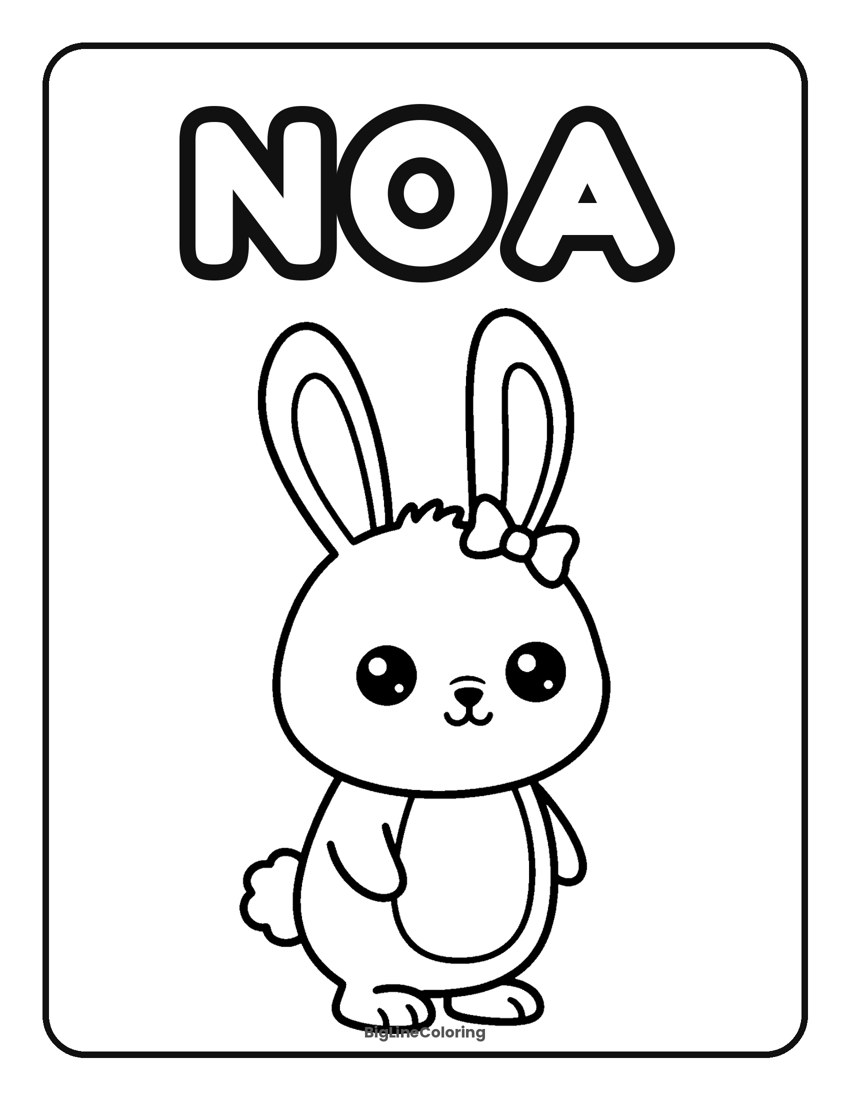
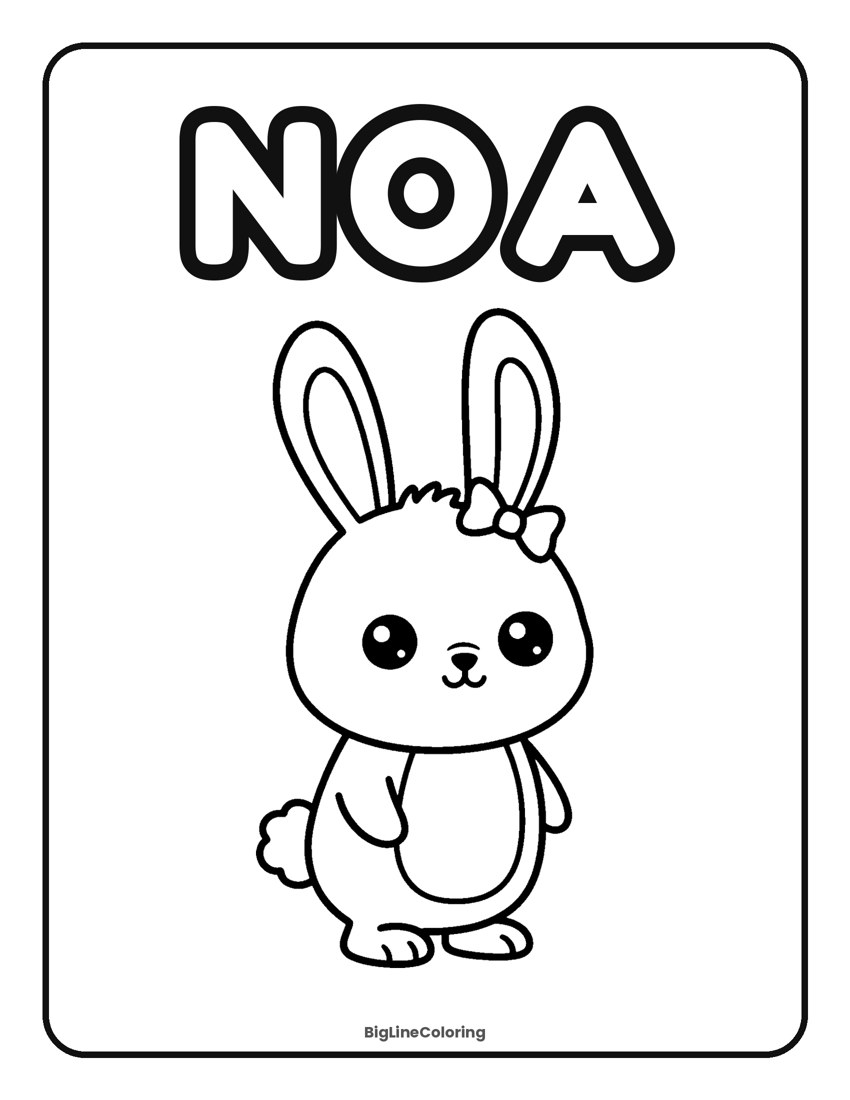
Name page: Christmas versions, friend links, print fix; home link

Changed region(s): [[0.2753, 0.2782, 0.7341, 0.9582]]

diff --git a/name-coloring-page.html b/name-coloring-page.html
@@ -22,7 +22,7 @@ select{font:600 16px system-ui;padding:8px;border:3px solid #1a1712;border-radiu
 #preview{width:100%;max-width:520px;display:block;margin:0 auto;border:3px solid #1a1712;border-radius:8px;background:#fff}
 .small{font-size:14px;color:#6b6250}
 #printimg{display:none}
-@media print{body{background:#fff}main{display:none}#printimg{display:block;width:100%}@page{margin:0}}
+@media print{body{background:#fff}main{display:none}#printimg{display:block;width:100%;height:100vh;object-fit:contain}@page{margin:0}}
 </style></head><body><main>
 <h1>Free name coloring page</h1>
 <p>Type your child's name and pick a friend. You get a printable page with the name in big bubble letters to color, made with the same extra-thick lines as our toddler coloring books (ages 2-5).</p>
@@ -36,6 +36,7 @@ select{font:600 16px system-ui;padding:8px;border:3px solid #1a1712;border-radiu
     <button data-k="hazel"><img src="name/hazel.png" alt="">Hazel Hedgehog</button>
     <button data-k="dot"><img src="name/dot.png" alt="">Dot Duck</button>
   </div>
+  <label style="margin-top:12px;font-weight:600"><input type="checkbox" id="xmas"> 🎄 Christmas version</label>
   <div class="row">
     <select id="size"><option value="letter">US Letter</option><option value="a4">A4</option></select>
     <button class="btn" id="pdf">Download PDF</button>
@@ -47,7 +48,7 @@ select{font:600 16px system-ui;padding:8px;border:3px solid #1a1712;border-radiu
 <img id="preview" alt="Your name coloring page">
 <div class="card" id="cta">
   <p><b>Love it?</b> Get a whole BigLine coloring book with <b><span id="ctaname">Noa</span>'s name</b> on the cover, the "This book belongs to" page and the certificate. Choose "Personalized with name" on any book.</p>
-  <a class="btn" href="https://www.etsy.com/shop/BigLineColoring">See the coloring books on Etsy</a>
+  <a class="btn" id="ctalink" href="https://www.etsy.com/listing/4588025856">See <span id="ctafriend">Bonnie</span>'s coloring book on Etsy</a>
 </div>
 <p><a href="free.html">More free toddler coloring pages →</a></p>
 <p class="small">Free for personal and classroom use. Illustrations made with AI tools under our own creative direction, checked by hand.</p>
@@ -57,6 +58,7 @@ select{font:600 16px system-ui;padding:8px;border:3px solid #1a1712;border-radiu
 <script>
 const SIZES = {letter: [1700, 2200, "letter"], a4: [1654, 2339, "a4"]};   // 200 dpi
 const imgs = {}; let friend = "bonnie";
+const BOOKS = {bonnie: ["Bonnie", "4588025856"], barnaby: ["Barnaby", "4590052287"], hazel: ["Hazel", "4588779387"], dot: ["Dot", "4589489708"]};
 function cleanName(v) { return (v || "").replace(/[^\p{L}\p{M} '\-]/gu, "").trim().slice(0, 12).toUpperCase(); }
 function load(k) {
   return imgs[k] || (imgs[k] = new Promise(r => { const i = new Image(); i.onload = () => r(i); i.src = "name/" + k + ".png"; }));
@@ -78,8 +80,8 @@ async function draw() {
   let cx = W / 2 - widthOf() / 2; const pos = chars.map(ch => { const p = cx; cx += x.measureText(ch).width + gap; return p; });
   x.lineWidth = size * 0.16; x.strokeStyle = "#111"; chars.forEach((ch, i) => x.strokeText(ch, pos[i], ty));  // thick outline...
   x.fillStyle = "#fff"; chars.forEach((ch, i) => x.fillText(ch, pos[i], ty));                                  // ...hollow inside
-  const img = await load(friend);                            // the friend, big, below the name
-  const bw = W - 2 * m - W * 0.12, bh = H * 0.66, k = Math.min(bw / img.width, bh / img.height);
+  const img = await load((document.getElementById("xmas").checked ? "xmas-" : "") + friend);                            // the friend, big, below the name
+  const bw = W - 2 * m - W * 0.12, bh = H * 0.60, k = Math.min(bw / img.width, bh / img.height);
   const iw = img.width * k, ih = img.height * k;
   x.drawImage(img, (W - iw) / 2, H * 0.28 + (bh - ih) / 2, iw, ih);
   x.fillStyle = "#555"; x.font = `600 ${W * 0.018}px system-ui, sans-serif`;
@@ -87,10 +89,13 @@ async function draw() {
   const url = c.toDataURL("image/png");
   document.getElementById("preview").src = url; document.getElementById("printimg").src = url;
   document.getElementById("ctaname").textContent = name.charAt(0) + name.slice(1).toLowerCase();
+  document.getElementById("ctafriend").textContent = BOOKS[friend][0];
+  document.getElementById("ctalink").href = "https://www.etsy.com/listing/" + BOOKS[friend][1];
   return {c, name, size: SIZES[document.getElementById("size").value]};
 }
 document.getElementById("name").addEventListener("input", draw);
 document.getElementById("size").addEventListener("change", draw);
+document.getElementById("xmas").addEventListener("change", draw);
 document.querySelectorAll("#friends button").forEach(b => b.addEventListener("click", () => {
   document.querySelectorAll("#friends button").forEach(o => o.classList.remove("on")); b.classList.add("on");
   friend = b.dataset.k; draw();

diff --git a/index.html b/index.html
@@ -8,5 +8,6 @@ img{width:100%;border-radius:10px}a{color:#b8412f}h1{font-size:28px;margin-botto
 <h1>BigLineColoring</h1>
 <p>Printable coloring books for toddlers, ages 2-5: extra-thick lines, big simple shapes, no tiny details.
 Levels 1-3, and the child's name on the cover if you like.</p>
+<p>🎁 <b><a href="name-coloring-page.html">Free: make a coloring page with your child's name</a></b> · <a href="free.html">Free coloring pages</a></p>
 <p><a href="https://www.etsy.com/shop/BigLineColoring">Shop on Etsy</a> · <a href="privacy.html">Privacy policy</a></p>
 </body></html>
